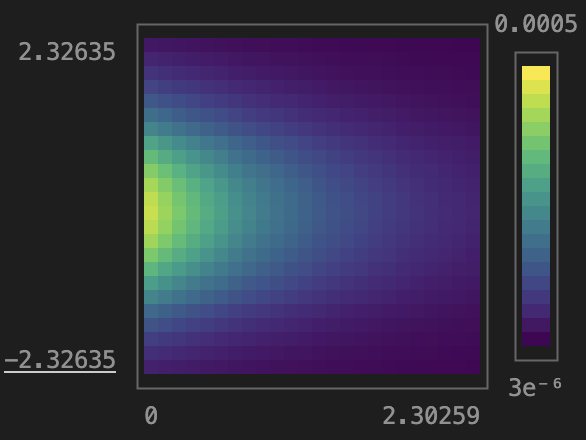
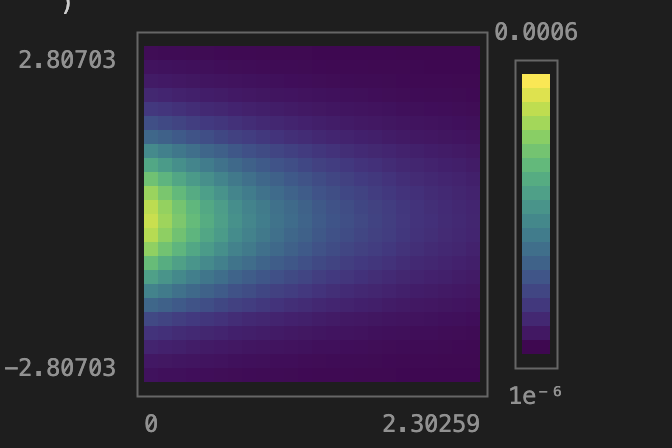
switch prior quantile selection to middle nth

diff --git a/README.md b/README.md
@@ -75,7 +75,7 @@ histogram(samp[:p])
 
 A super basic linear regression. We have eleven points, a single feature, and no intercept. We're estimating the slope (β) and the variance (σ).
 ```julia
-using Griddle, UnicodePlots
+using Griddle, UnicodePlots, LinearAlgebra
 
 x = 0:0.2:1
 β = 0.5
@@ -89,7 +89,7 @@ post = gridapproximation(
     β = (
         prior=Normal(0,1),
         n=1000,
-        q=0.1
+        q=0.9
     ),
     σ = Exponential(1)
 )
@@ -98,9 +98,9 @@ Notice a few things
 * The data, our `x` and `y` vectors, are enclosed by the likelihood function
 * We have to *sum* the log likelihoods over each data point
 * The posterior grid will now have two dimensions because there are two parameters
-* We restricted the grid samples for β between the 0.1th and 0.9th quantiles of its prior and asked for 1000 samples in that interval
+* We restricted the grid samples for β to the middle 90 % of its prior probability mass and asked for 1000 samples in that interval
 ```julia
-lineplot(post.axes[1].val, sum(post, dims=2)[:,1] |> normalize)
+lineplot(post.axes[1].val, normalize(sum(post, dims=2)[:,1], 1))
 ```
 ![beta](img/linear_beta_marg.png)
 
@@ -142,11 +142,11 @@ To approximate the joint prior density, just use the same `gridapproximation` fu
 post = gridapproximation(
     μ = (
         prior=Normal(),
-        q=0.01
+        q=0.995
     ),
     σ = (
         prior=Exponential(),
-        q=0.1
+        q=0.8
     )
 )
 
